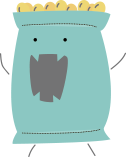
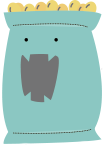
document update

diff --git a/gsell.html b/gsell.html
@@ -13,7 +13,10 @@
 <body>
     <!-- map serch -->
     <div id="google_serch">
-        <div id="serch_title"><p>定位搜尋</p></div>
+        <div id="serch_title">
+            <p>定位搜尋</p>
+        </div>
+
         <form action="" method="get" name="serch_list" id="serch_form">
 
             <div id="serch_bar">
@@ -21,18 +24,19 @@
                     <option value="111">中壢市</option>
                     <option value="222">桃園市</option>
                     <option value="333">新北市</option>
-                    <option value="444">台北市    </option>
+                    <option value="444">台北市 </option>
                 </select>
+            </div>
 
+            <div id="serch_input">
                 <input type="text" name="serch_start" placeholder="起點" class="serch serch_start">
-
-                <a href="#" class="serch serch_serch">
-                    <i class="fas fa-search"></i>
-                </a>
+                <input type="text" name="serch_end" placeholder="目的地" id="serch_end">
             </div>
 
             <div class="serch">
-                <input type="text" name="serch_end" placeholder="目的地" id="serch_end">
+                <a href="#" class="serch serch_serch">
+                    <i class="fas fa-search"></i>
+                </a>
             </div>
         </form>
     </div>

diff --git a/sass/nnnnn.scss b/sass/nnnnn.scss
@@ -48,7 +48,8 @@ footer {
 .snack .shadow {
     position: absolute;
     // top: 20%;
-    width: 180px;
+    // width: 180px;
+    width: 90px;
     height: 25px;
     border-radius: 50%;
     background: rgba(0, 0, 0, 0.05);
@@ -64,7 +65,7 @@ footer {
 
 #copy {
     position: absolute;
-    top: 43.5%;
+    top: 45%;
     left: 45%;
     z-index: 0;
 }
@@ -142,13 +143,17 @@ img{
     }
     
     .snack .pic {
-        top: -120px;
+        top: -110px;
+    }
+
+    .snack .shadow {
+        height: 5px;
     }
 
 
     #copy {
-        font-size: 12px;
-        top: 31%;
+        font-size: 10px;
+        top: 32.5%;
         left: 30%;
     }
 

diff --git a/css/nnnnn.css b/css/nnnnn.css
@@ -297,7 +297,7 @@ footer {
 
 .snack .shadow {
   position: absolute;
-  width: 180px;
+  width: 90px;
   height: 25px;
   border-radius: 50%;
   background: rgba(0, 0, 0, 0.05);
@@ -310,7 +310,7 @@ footer {
 
 #copy {
   position: absolute;
-  top: 43.5%;
+  top: 45%;
   left: 45%;
   z-index: 0; }
 
@@ -367,8 +367,10 @@ img {
   .pic {
     width: 50%; }
   .snack .pic {
-    top: -120px; }
+    top: -110px; }
+  .snack .shadow {
+    height: 5px; }
   #copy {
-    font-size: 12px;
-    top: 31%;
+    font-size: 10px;
+    top: 32.5%;
     left: 30%; } }

diff --git a/css/gsell.css b/css/gsell.css
@@ -269,6 +269,14 @@ input[type=number]::-webkit-outer-spin-button {
   height: 0;
   clear: both; }
 
+input, select {
+  color: #076baf;
+  font-family: g2Font;
+  src: url(../GenJyuuGothicX-Bold.ttf); }
+
+.serch serch_start {
+  color: #076baf; }
+
 #map img {
   width: 100%; }
 

diff --git a/sass/gsell.scss b/sass/gsell.scss
@@ -12,6 +12,16 @@
     height: 0;
     clear: both; 
 }
+// form
+input,select {
+    color: #076baf;
+    font-family: g2Font;
+    src: url(../GenJyuuGothicX-Bold.ttf);
+}
+
+.serch serch_start{
+    color: #076baf;
+}
 
 #map img{
     width: 100%;
